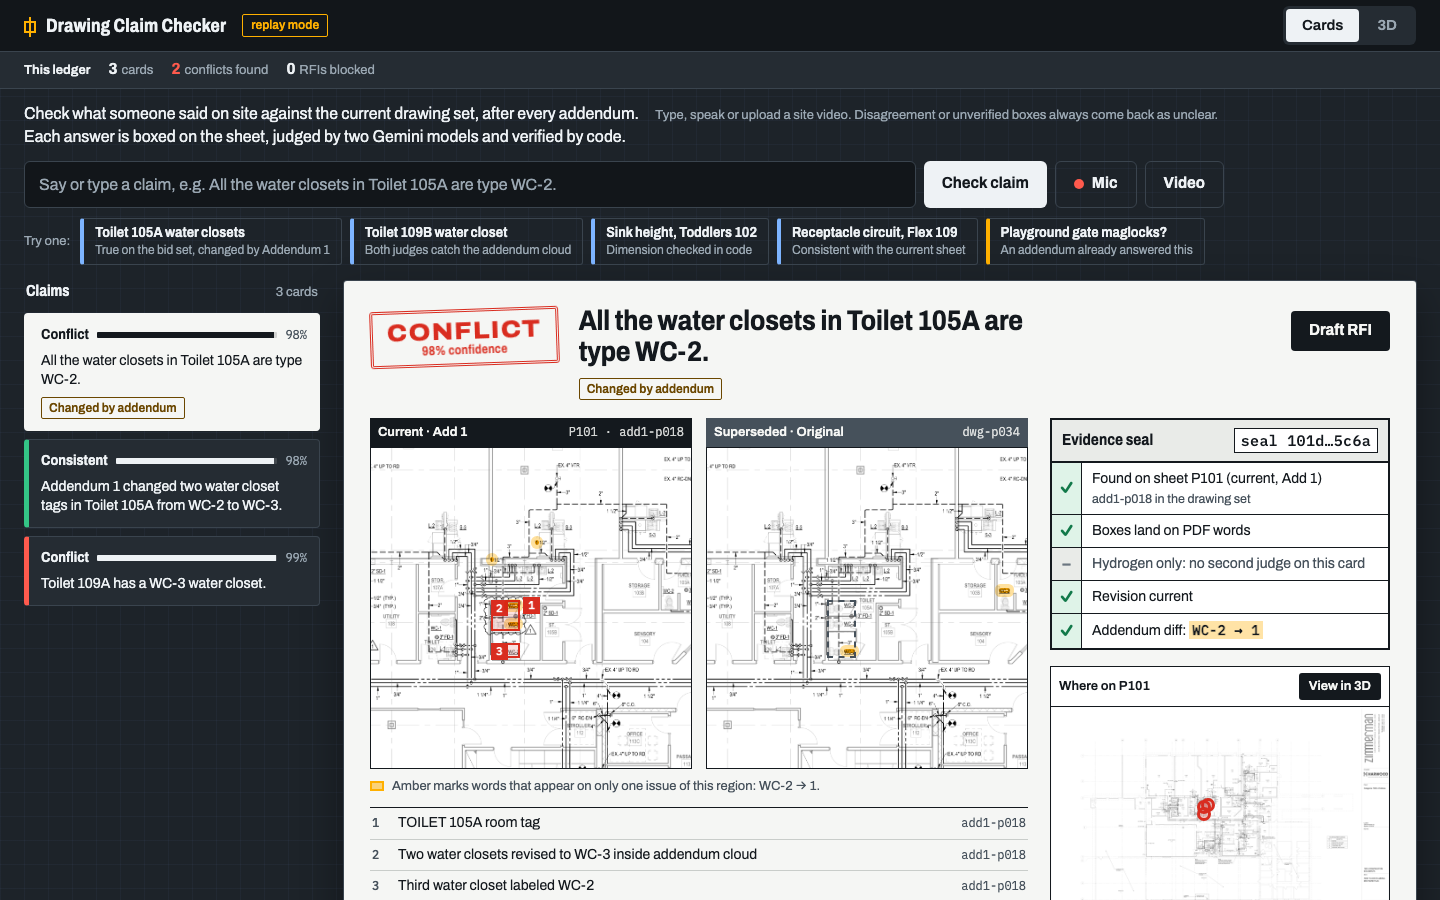
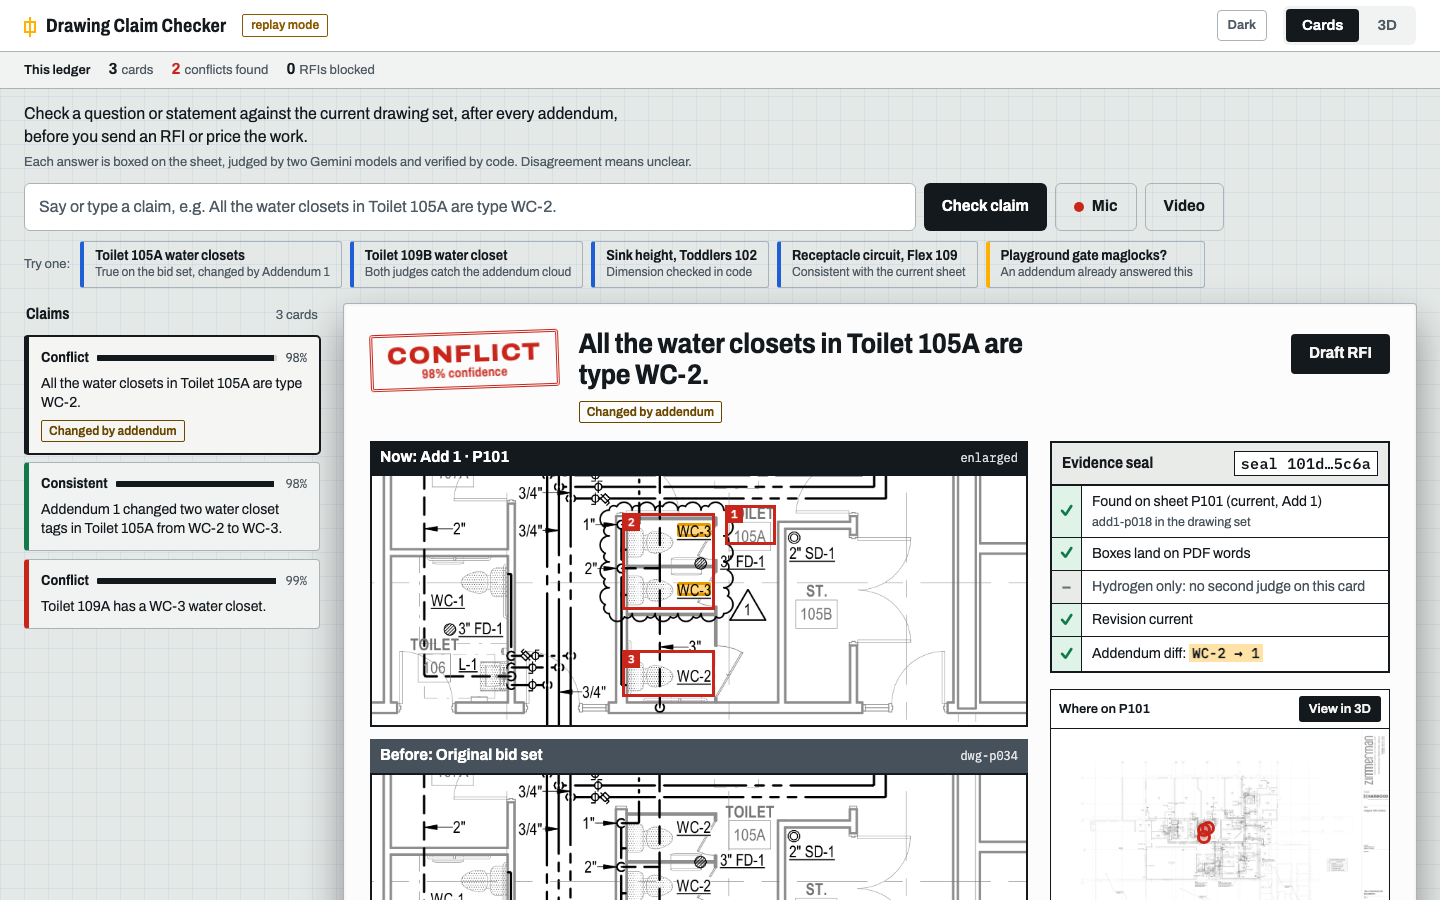
UI: light paper theme with dark toggle, enlarged before/after evidence detail, trace inside the card, RFI framing copy

diff --git a/ui/index.html b/ui/index.html
@@ -10,15 +10,18 @@
 <script type="importmap">{"imports":{"three":"https://cdn.jsdelivr.net/npm/three@0.160.0/build/three.module.js","three/addons/":"https://cdn.jsdelivr.net/npm/three@0.160.0/examples/jsm/"}}</script>
 <style>
 :root{
-  --board:#1d2329;--board-2:#252c33;--chrome:#12161a;--line:#3a444e;--mute:#9aa7b2;--text:#eef2f5;
+  --board:#e4e8e7;--board-2:#f1f3f2;--chrome:#ffffff;--line:#aab3b8;--mute:#4f5a63;--text:#14191e;--on-text:#ffffff;
+  --grid:rgba(31,95,214,.07);--badge:#8a5a00;
   --paper:#f5f6f4;--paper-2:#e9ebe8;--ink:#14191e;--ink-2:#46515b;--rule:#14191e;
-  --red:#d92d20;--red-on-dark:#ff5a4d;--green:#12794a;--green-on-dark:#34c586;--amber:#ffb000;--amber-ink:#6b4700;--blue:#7db4ff;--grey:#6b7680;
+  --red:#c8261b;--red-on-dark:#c8261b;--green:#12794a;--green-on-dark:#12794a;--amber:#ffb000;--amber-ink:#6b4700;--blue:#1f5fd6;--grey:#6b7680;
   --sans:'Archivo',system-ui,-apple-system,'Segoe UI',sans-serif;--mono:'IBM Plex Mono',ui-monospace,Menlo,monospace;
 }
+:root[data-theme="dark"]{--board:#1d2329;--board-2:#252c33;--chrome:#12161a;--line:#3a444e;--mute:#9aa7b2;--text:#eef2f5;--on-text:#14191e;
+  --grid:rgba(125,180,255,.045);--badge:#ffb000;--red-on-dark:#ff5a4d;--green-on-dark:#34c586;--blue:#7db4ff}
 *{box-sizing:border-box}
 html{-webkit-text-size-adjust:100%}
 body{margin:0;background:var(--board);color:var(--text);font:15px/1.45 var(--sans);font-stretch:100%;overflow-x:hidden;
-  background-image:linear-gradient(rgba(125,180,255,.045) 1px,transparent 1px),linear-gradient(90deg,rgba(125,180,255,.045) 1px,transparent 1px);background-size:24px 24px}
+  background-image:linear-gradient(var(--grid) 1px,transparent 1px),linear-gradient(90deg,var(--grid) 1px,transparent 1px);background-size:24px 24px}
 .mono{font-family:var(--mono)}
 button,input{font:inherit;color:inherit}
 button{cursor:pointer}
@@ -31,11 +34,12 @@ button{cursor:pointer}
 .brand{display:flex;align-items:baseline;gap:10px;margin:0;font-size:19px;font-weight:700;font-stretch:80%;letter-spacing:.2px;white-space:nowrap}
 .brand i{display:inline-block;width:12px;height:12px;border:2px solid var(--amber);transform:translateY(1px);position:relative}
 .brand i::after{content:"";position:absolute;left:3px;top:-6px;width:2px;height:20px;background:var(--amber)}
-.replay{padding:2px 8px;border:1px solid var(--amber);border-radius:2px;font-size:12px;font-weight:600;color:var(--amber)}
+.replay{padding:2px 8px;border:1px solid var(--badge);border-radius:2px;font-size:12px;font-weight:600;color:var(--badge)}
 .spacer{flex:1}
 nav{display:flex;gap:2px;background:var(--board-2);padding:3px;border-radius:6px}
 .tab{padding:6px 16px;background:transparent;border:0;border-radius:4px;font-weight:600;color:var(--mute)}
-.tab.act{background:var(--text);color:var(--ink)}
+.tab.act{background:var(--text);color:var(--on-text)}
+.thm{padding:5px 10px;background:transparent;border:1.5px solid var(--line);border-radius:4px;font-size:13px;font-weight:600;color:var(--mute)}
 
 /* score strip */
 .strip{display:flex;flex-wrap:wrap;align-items:center;gap:6px 28px;padding:7px 24px;background:var(--board-2);border-bottom:1px solid var(--line);font-size:13px;color:var(--mute)}
@@ -45,7 +49,7 @@ nav{display:flex;gap:2px;background:var(--board-2);padding:3px;border-radius:6px
 .strip .gl{font-weight:600;color:var(--text)}
 .strip .cnt b{font-size:15px;margin-right:4px}
 .strip .cnt.hot b{color:var(--red-on-dark)}
-.strip .cnt.blk b{color:var(--amber)}
+.strip .cnt.blk b{color:var(--badge)}
 
 /* claim bar */
 .ask{padding:14px 24px 0}
@@ -53,7 +57,7 @@ nav{display:flex;gap:2px;background:var(--board-2);padding:3px;border-radius:6px
 #claimIn{flex:1;min-width:0;padding:11px 14px;background:var(--chrome);border:1.5px solid var(--line);border-radius:6px;color:var(--text);font-size:16px}
 #claimIn::placeholder{color:var(--mute)}
 #claimIn:focus-visible{border-color:var(--blue);outline-offset:0}
-.btn{padding:10px 18px;background:var(--text);color:var(--ink);border:0;border-radius:6px;font-weight:700}
+.btn{padding:10px 18px;background:var(--text);color:var(--on-text);border:0;border-radius:6px;font-weight:700}
 .btn.ghost{background:transparent;color:var(--text);border:1.5px solid var(--line)}
 .btn.ghost:hover{border-color:var(--text)}
 #micBtn,#vidBtn{display:flex;align-items:center;gap:8px}
@@ -62,7 +66,7 @@ nav{display:flex;gap:2px;background:var(--board-2);padding:3px;border-radius:6px
 #micBtn.rec .dot{background:#fff;animation:pulse 1s infinite}
 button:disabled{opacity:.55;cursor:wait}
 .status{margin:10px 0 0;max-width:1200px;padding:8px 12px;background:var(--chrome);border-left:3px solid var(--blue);font-size:14px}
-.status.bad{border-left-color:var(--red-on-dark);color:#ffd9d5}
+.status.bad{border-left-color:var(--red-on-dark);color:var(--red-on-dark);font-weight:600}
 
 /* first-screen explainer + samples */
 .lede{display:flex;flex-wrap:wrap;align-items:baseline;gap:4px 14px;max-width:1200px;margin:0 0 12px}
@@ -78,7 +82,7 @@ button:disabled{opacity:.55;cursor:wait}
 .smp:disabled{opacity:.5}
 .missbox{margin:0 0 14px;padding:12px 14px;border:2px dashed var(--ink-2);background:var(--paper-2);font-size:15px}
 .missbox b{display:block;font-size:17px;margin-bottom:4px}
-.replayed{display:inline-block;margin-left:8px;padding:0 6px;border:1px solid var(--amber);color:var(--amber);font-size:11px;font-weight:600}
+.replayed{display:inline-block;margin-left:8px;padding:0 6px;border:1px solid var(--amber-ink);color:var(--amber-ink);font-size:11px;font-weight:600}
 .blocked .stamp2{grid-column:1/-1;justify-self:start;padding:6px 16px 5px;border:4px double var(--red);color:var(--red);font-weight:800;font-stretch:112%;font-size:30px;letter-spacing:.05em;text-transform:uppercase;transform:rotate(-2.5deg);line-height:1.05}
 .blocked .stamp2 small{display:block;font-size:13px;letter-spacing:.02em;text-transform:none;font-weight:700;color:#7a1710}
 
@@ -119,7 +123,7 @@ main{padding:16px 24px 40px}
 .row.v-conflict{border-left-color:var(--red-on-dark)}
 .row.v-consistent{border-left-color:var(--green-on-dark)}
 .row:hover{border-color:var(--mute)}
-.row.sel{background:var(--paper);color:var(--ink);border-color:var(--paper)}
+.row.sel{background:var(--paper);color:var(--ink);border-color:var(--ink);box-shadow:0 0 0 1px var(--ink)}
 .rtop{display:flex;align-items:center;gap:8px;flex-wrap:wrap}
 .vw{font-weight:700;font-stretch:90%;font-size:14px}
 .row.sel .mute{color:var(--ink-2)}
@@ -127,7 +131,7 @@ main{padding:16px 24px 40px}
 .claimTxt{font-size:14px;line-height:1.35}
 .chips{display:flex;gap:6px;flex-wrap:wrap}
 .chip{display:inline-block;padding:1px 7px;border:1.5px solid currentColor;border-radius:2px;font-size:12px;font-weight:600;line-height:1.5}
-.chip.amber{color:var(--amber)}
+.chip.amber{color:var(--badge)}
 .row.sel .chip.amber{color:var(--amber-ink)}
 .chip.spk{color:var(--blue)}
 .row.sel .chip.spk{color:#1f5fd6}
@@ -140,7 +144,7 @@ main{padding:16px 24px 40px}
 .hq:hover{border-color:var(--mute)}
 
 /* the sheet */
-.paper{background:var(--paper);color:var(--ink);border:2px solid var(--paper);border-radius:3px;padding:22px 24px 18px;box-shadow:0 0 0 1px var(--line),0 18px 40px rgba(0,0,0,.4);min-width:0}
+.paper{background:#fbfcfb;color:var(--ink);border:2px solid var(--paper);border-radius:3px;padding:22px 24px 18px;box-shadow:0 0 0 1px var(--line),0 18px 40px rgba(0,0,0,.4);min-width:0}
 .paper.enter{animation:rise .35s cubic-bezier(.2,.7,.2,1)}
 .shead{display:flex;gap:20px;align-items:flex-start;margin-bottom:18px}
 .stamp{flex:none;padding:6px 14px 5px;border:3px double currentColor;border-radius:3px;font-weight:800;font-stretch:112%;font-size:24px;letter-spacing:.06em;text-transform:uppercase;transform:rotate(-2deg);margin-top:4px;line-height:1.1;text-align:center}
@@ -182,6 +186,29 @@ main{padding:16px 24px 40px}
 .legend li{display:flex;gap:10px;align-items:baseline;padding:5px 2px;border-bottom:1px solid #c9cdca;font-size:14px}
 .lnum{font-weight:500;min-width:16px;color:var(--ink-2);font-size:12px}
 .lsheet{margin-left:auto;white-space:nowrap;font-size:12px;color:var(--ink-2)}
+
+/* enlarged detail: the boxed words at readable size */
+.detail2{display:grid;grid-template-columns:minmax(0,1fr);gap:12px;margin:0 0 10px}
+.detail2.one{grid-template-columns:minmax(0,1fr)}
+.zoom{position:relative;overflow:hidden;border:2px solid var(--ink);background:#fff;aspect-ratio:2/1}
+.zoom img{position:absolute;max-width:none;image-rendering:auto}
+.zcap{display:flex;justify-content:space-between;align-items:baseline;gap:8px;padding:6px 10px;background:var(--ink);color:#fff;font-size:15px;font-weight:700}
+.zcap.old{background:var(--ink-2)}
+.zcap .mono{font-weight:400;font-size:12px;opacity:.85}
+.zoom .bbox{border-width:3px;background:transparent}
+.zoom .dbox{border-width:3px}
+.ctx{margin-top:4px}
+.ctx summary{cursor:pointer;font-size:13px;font-weight:600;color:var(--ink-2);padding:6px 0}
+.trace.incard{margin:0;background:#fff;color:var(--ink);border:2px solid var(--ink);border-radius:3px;padding:16px 18px}
+.trace.incard .tt,.trace.incard .tt b{color:var(--ink)}
+.trace.incard .stp .nm{color:var(--ink-2)}
+.trace.incard .stp.run .nm,.trace.incard .stp.done .nm{color:var(--ink)}
+.trace.incard .stp .tm{color:var(--ink-2)}
+.trace.incard .stp.done .dotm{background:var(--green);border-color:var(--green)}
+.trace.incard .stp.done .ln{background:var(--green)}
+.trace.incard .stp .dotm{background:#fff;border-color:#aab3b8}
+.trace.incard .pair::before{background:#fff;color:var(--ink-2)}
+.trace.incard .pair{border-left-color:#aab3b8}
 
 /* seal = title block */
 .aside{display:flex;flex-direction:column;gap:16px;min-width:0}
@@ -252,7 +279,8 @@ main{padding:16px 24px 40px}
 @media (max-width:1180px){.cols{grid-template-columns:1fr}.aside{display:grid;grid-template-columns:1fr 1fr;gap:16px;align-items:start}}
 @media (max-width:900px){#cardsView{grid-template-columns:1fr}.ledger{position:relative;top:auto;max-height:none;flex-direction:row;overflow-x:auto;gap:8px;padding-bottom:6px;scroll-snap-type:x proximity}.ledger .row{flex:0 0 260px;scroll-snap-align:start}.lh{display:none}.heard{flex:0 0 240px}}
 @media (max-width:700px){
-  .top{padding:0 16px;gap:10px;height:48px}.brand{font-size:16px}.replay{display:none}
+  .detail2{grid-template-columns:1fr}
+  .top{padding:0 12px;gap:8px;height:48px}.tab{padding:6px 10px}.thm{padding:4px 8px}.brand{font-size:16px}.replay{display:none}
   .strip{padding:6px 16px;gap:4px 14px;font-size:12px}.strip .grp+.grp{margin-left:0}
   .ask{padding:12px 16px 0}main{padding:12px 16px 32px}
   .paper{padding:16px 14px 14px}
@@ -272,6 +300,7 @@ main{padding:16px 24px 40px}
   <h1 class="brand"><i aria-hidden="true"></i>Drawing Claim Checker</h1>
   <span id="replayBadge" class="replay" hidden>replay mode</span>
   <span class="spacer"></span>
+  <button id="thmBtn" class="thm" type="button" aria-pressed="false">Dark</button>
   <nav aria-label="Views">
     <button id="tabCards" class="tab act" type="button">Cards</button>
     <button id="tab3d" class="tab" type="button">3D</button>
@@ -279,8 +308,8 @@ main{padding:16px 24px 40px}
 </header>
 <div id="strip" class="strip" aria-label="Scoreboard"></div>
 <section class="ask">
-  <div class="lede"><p>Check what someone said on site against the current drawing set, after every addendum. Each answer is boxed on the sheet, judged by two Gemini models and verified by code.</p>
-  <span class="how">Type, speak or upload a site video. Disagreement or unverified boxes always come back as unclear.</span></div>
+  <div class="lede"><p>Check a question or statement against the current drawing set, after every addendum, before you send an RFI or price the work.</p>
+  <span class="how">Each answer is boxed on the sheet, judged by two Gemini models and verified by code. Disagreement means unclear.</span></div>
   <div class="bar">
     <input id="claimIn" type="text" maxlength="500" placeholder="Say or type a claim, e.g. All the water closets in Toilet 105A are type WC-2." aria-label="Say or type a claim">
     <button id="goBtn" class="btn" type="button">Check claim</button>
@@ -318,11 +347,15 @@ const FLOOR_SHEET='add1-p018';
 const SHEET_W=3024,SHEET_H=2160;
 
 let cards=[],selId=null,heard=null;
+const TRACE=document.getElementById('trace');
 const rfiState=new Map();   // card id -> {status:'pending'|'draft'|'blocked'|'na', ...}
 let threeInit=false,renderer,scene,camera,controls,raycaster,mouse,pins=[],pinGroups=[],metrics=null;
 
 $('tabCards').onclick=()=>{location.hash=selId?`#card=${encodeURIComponent(selId)}`:'#cards';};
 $('tab3d').onclick=()=>{location.hash='#3d';};
+function setTheme(t){document.documentElement.dataset.theme=t;const b=$('thmBtn');b.textContent=t==='dark'?'Light':'Dark';b.setAttribute('aria-pressed',String(t==='dark'));try{localStorage.setItem('theme',t);}catch(e){}}
+{let t='light';try{t=localStorage.getItem('theme')||'light';}catch(e){}setTheme(t);}
+$('thmBtn').onclick=()=>setTheme(document.documentElement.dataset.theme==='dark'?'light':'dark');
 const setStatus=(t,bad)=>{const s=$('status');s.hidden=!t;s.className='status'+(bad?' bad':'');s.textContent=t||'';};
 async function api(path,opts){
   const r=await fetch(path,opts);
@@ -420,7 +453,8 @@ fetch('/api/metrics').then(r=>r.ok?r.json():null).then(m=>{metrics=m;renderStrip
 const STEPS=[['search','Search sheets'],['crop','Crop evidence'],['judge_a','Argon judging'],['judge_b','Carbon judging'],['grounding','Grounding check'],['revision','Revision check'],['sealed','Card sealed']];
 const PACE_MS=230;   // cosmetic: reveal events at least this far apart so replayed (instant) runs stay readable; shown times are the server's
 function buildTrace(claim){
-  const box=$('trace');box.hidden=false;box.textContent='';
+  const box=TRACE;box.hidden=false;box.textContent='';box.className='trace incard';
+  const d=$('detail');d.textContent='';d.append(box);
   const tt=el('div','tt');
   const left=el('span');left.append(el('b',null,'Agent trace'),'  '+claim);
   const total=el('span','mono','0.0 s');
@@ -504,9 +538,10 @@ async function submitClaim(){
   try{
     const card=await streamCheck(claim);
     $('claimIn').value='';
-    setTimeout(()=>{$('trace').hidden=true;},1600);
+    await new Promise(r=>setTimeout(r,700));
+    TRACE.hidden=true;
     addCards([card]);
-  }catch(e){$('trace').hidden=true;setStatus('Check failed: '+e.message,true);}
+  }catch(e){TRACE.hidden=true;setStatus('Check failed: '+e.message,true);renderDetail(false);}
   finally{$('goBtn').disabled=$('claimIn').disabled=false;document.querySelectorAll('.smp').forEach(b=>b.disabled=false);}
 }
 $('goBtn').onclick=submitClaim;
@@ -696,6 +731,32 @@ const clampBox=b=>{const cl=v=>Math.max(0,Math.min(1000,Number(v)||0));
 function place(div,b){const [y0,x0,y1,x1]=clampBox(b);
   div.style.top=(y0/10)+'%';div.style.left=(x0/10)+'%';div.style.height=((y1-y0)/10)+'%';div.style.width=((x1-x0)/10)+'%';}
 
+/* a window (0..1000 crop units) around the evidence boxes, padded, at least 150 units wide, 2:1 */
+function zoomWindow(bs){
+  let y0=1e9,x0=1e9,y1=-1e9,x1=-1e9;
+  for(const b of bs){const [a,bb,cc,dd]=clampBox(b);y0=Math.min(y0,a);x0=Math.min(x0,bb);y1=Math.max(y1,cc);x1=Math.max(x1,dd);}
+  let w=Math.max(110,(x1-x0)*1.3),h=Math.max(40,(y1-y0)*1.3);
+  if(w<h*2.6)w=h*2.6;else h=w/2.6;
+  w=Math.min(w,1000);h=Math.min(h,1000);
+  const cx=(x0+x1)/2,cy=(y0+y1)/2;
+  const L=Math.max(0,Math.min(1000-w,cx-w/2)),T=Math.max(0,Math.min(1000-h,cy-h/2));
+  return {x:L,y:T,w,h};
+}
+function zoomFig(capL,capR,old,src,win,boxes){
+  const f=el('figure','fig');
+  const cap=el('figcaption','zcap'+(old?' old':''));cap.append(el('span',null,capL),el('span','mono',capR));
+  const z=el('div','zoom');
+  const img=el('img');img.alt=capL+' (enlarged detail)';img.src=src;
+  img.style.width=(1000/win.w*100)+'%';img.style.left=(-win.x/win.w*100)+'%';
+  img.style.height=(1000/win.h*100)+'%';img.style.top=(-win.y/win.h*100)+'%';
+  img.onload=()=>{const ar=(win.w*img.naturalWidth)/(win.h*img.naturalHeight);if(ar>0&&isFinite(ar))z.style.aspectRatio=String(ar);};
+  z.append(img);
+  for(const o of boxes){const [y0,x0,y1,x1]=clampBox(o.b);const dv=el('div',o.cls);
+    dv.style.left=((x0-win.x)/win.w*100)+'%';dv.style.top=((y0-win.y)/win.h*100)+'%';
+    dv.style.width=((x1-x0)/win.w*100)+'%';dv.style.height=((y1-y0)/win.h*100)+'%';
+    if(o.tag)dv.append(el('span','btag mono',o.tag));z.append(dv);}
+  f.append(cap,z);return f;
+}
 function figure(capL,capR,old,src,alt){
   const f=el('figure','fig');
   const cap=el('figcaption','fcap'+(old?' old':''));cap.append(el('span',null,capL),el('span','mono',capR));
@@ -791,7 +852,18 @@ function renderDetail(animate){
   }
   if(x){for(const b of (x.boxes.current||[])){const dx=el('div','dbox');place(dx,b);A.wrap.append(dx);}}
   if(c.video_evidence&&c.video_evidence.frame)left.append(videoPanel(c));
-  left.append(cmp);
+  const zb=(cev.length?cev:(c.evidence||[])).map(e=>e.box_2d_on_crop).filter(b=>Array.isArray(b)&&b.length===4);
+  if(curSrc&&zb.length){
+    const win=zoomWindow(zb);
+    const dz=el('div','detail2'+(hasSup?'':' one'));
+    dz.append(zoomFig('Now: '+revLabel(first.revision)+' · '+sn,'enlarged',false,curSrc,win,
+      [...zb.map((b,i)=>({b,cls:'bbox '+vCls(c.verdict),tag:String(i+1)})),...(x?(x.boxes.current||[]).map(b=>({b,cls:'dbox'})):[])]));
+    if(hasSup)dz.append(zoomFig('Before: Original bid set',(x.d.superseded_sheet)||'superseded',true,x.crop,win,
+      (x.boxes.superseded||[]).map(b=>({b,cls:'dbox'}))));
+    left.append(dz);
+    const det=el('details','ctx');det.append(el('summary',null,'Show the full sheet crops'));det.append(cmp);
+    left.append(det);
+  }else left.append(cmp);
   if(hasSup){
     const n=el('p','cmpnote');n.append(el('span','sw'),'Amber marks words that appear on only one issue of this region'+(diffSummary(c)?': '+diffSummary(c):'')+'.');
     left.append(n);
@@ -816,7 +888,7 @@ function renderDetail(animate){
     li.append(tx);ul.append(li);
   }
   seal.append(ul);
-  aside.append(seal);
+  if(!c.replay_miss)aside.append(seal);
   const bad=items.filter(i=>i.s==='bad');
   if(c.verdict==='unclear'){
     const u=el('div','unclear','Unclear because: '+(bad.length?bad.map(b=>(b.w||b.t)).join(' '):(c.reason||'the evidence does not settle the claim.')));
@@ -838,7 +910,7 @@ function renderDetail(animate){
     }
     loc.append(lt,plan);aside.append(loc);
   }
-  if(c.reason)left.append(el('p','reason',c.reason));
+  if(c.reason&&!c.replay_miss)left.append(el('p','reason',c.reason));
   cols.append(left,aside);paper.append(cols);
 
   if(c.verdict==='conflict'||c.verdict==='unclear'){
